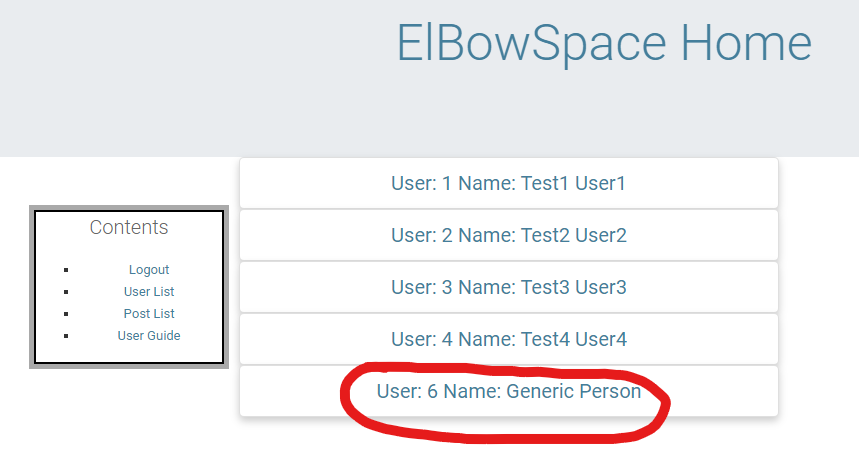
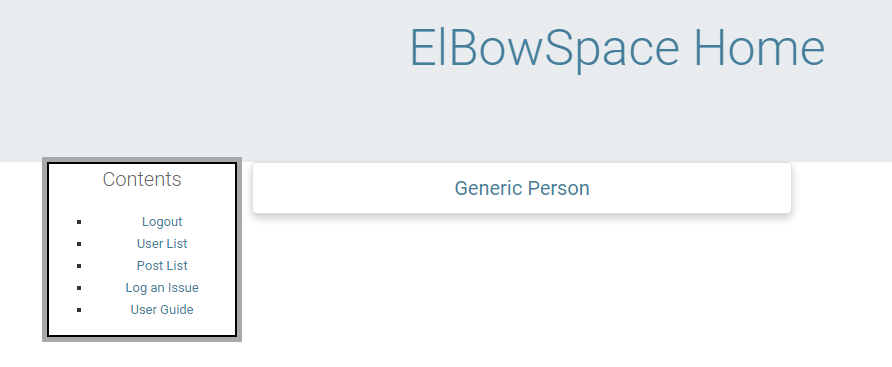
tutorial additions
building up tutorial content

diff --git a/templates/tutorial.html b/templates/tutorial.html
@@ -63,9 +63,7 @@
             <p>
             The User List is where you'll see your potential connections.  For now the list is small and easy to
                 navigate, but with more use a search feature will be added to help you find people.  Did you notice
-                you have already been added to the list?  The number next to your name is a unique id we use to
-                find and sort people quickly in our database, it doesn't mean anything here and likely won't be
-                visible later.  Click on your name to see your options.
+                you have already been added to the list?  Click on your name to see your options.
             </p>
         </div>
         <div class="container">
@@ -90,7 +88,10 @@
     <div class="card">
         <div class="container">
             <p>
-            Here's where you can edit your name, email, and password.  Saving will return you to your detail page.
+            Here's where you can edit your name, email, and password.  Saving will log you out and return you to the
+                home page for Elbow Space.  This is a security feature that signs you out of all computers if the
+                password changes.  If you don't want to change your password at this time, hit the browser back button
+                to return to your detail page.
             </p>
         </div>
         <div class="container">
@@ -126,15 +127,67 @@
     <div class="card">
         <div class="container">
             <p>
-            You've been taken to a page showing only the posts made by you.  Ta-da!  There is another link here
-                from your user detail page 'All Post by ~name~'.  The line at the top there in the image below
-                is an edit post link to let you fix spelling mistakes.  It is always available to you on your
-                own posts.  You can also delete the post there.
+            Ta-da!  The line at the top there in the image below is an post detail link to let you fix spelling mistakes.
+                It is always available to you on your own posts.  You can also delete the post there.
             </p>
         </div>
         <div class="container">
             <p>
-            <img src="{% static '/images/tutorial/only_your_posts.png' %}" alt="see your posts here">
+            <img src="{% static '/images/tutorial/post_detail.png' %}" alt="see your posts here">
+            </p>
+        </div>
+    </div>
+    <div class="card">
+        <div class="container">
+            <p>
+            Another feature of this link is the reply link.  From there you can reply to the post with a new post.
+                Note: deleting a post also deletes all replies to that post.
+            </p>
+        </div>
+        <div class="container">
+            <p>
+            <img src="{% static '/images/tutorial/post_reply.png' %}" alt="see your posts here">
+            </p>
+        </div>
+    </div>
+    <div class="card">
+        <div class="container">
+            <p>
+            Let's return to the User List where we see another user has joined Elbow Space.  Click on the link to see
+                New Friends detail page.
+            </p>
+        </div>
+        <div class="container">
+            <p>
+            <img src="{% static '/images/tutorial/new_friend.png' %}" alt="see your posts here">
+            </p>
+        </div>
+    </div>
+    <div class="card">
+        <div class="container">
+            <p>
+            The user detail options have changed.  That's because only you can edit your own account info.  If you
+                want to connect with this user then you can click the make connection link.  You'll be returned to
+                the user list, but don't worry.  It worked!  You are connected now.
+            </p>
+        </div>
+        <div class="container">
+            <p>
+            <img src="{% static '/images/tutorial/connect_with_new.png' %}" alt="see your posts here">
+            </p>
+        </div>
+    </div>
+    <div class="card">
+        <div class="container">
+            <p>
+            That's it for now.  This tutorial will be extended as more options come online.  Play around and see what
+                you can do.  Be sure to let the developers know what changes you'd like to see by logging issues on
+                their GitHub repo.
+            </p>
+        </div>
+        <div class="container">
+            <p>
+{#            <img src="{% static '/images/tutorial/connect_with_new.png' %}" alt="see your posts here">#}
             </p>
         </div>
     </div>

diff --git a/templates/user_detail.html b/templates/user_detail.html
@@ -8,9 +8,7 @@
             <div class="card">
                 <div class="container">
                     <div class="user-entry">
-                        <h2>id: {{ person.id }}</h2>
-                        <p>first: {{ person.first_name }}</p>
-                        <p>last: {{ person.last_name }}</p>
+                        <p>{{ person.first_name }} {{ person.last_name }}</p>
                         <p>email: {{ person.email }}</p>
                     </div>
                 </div>
